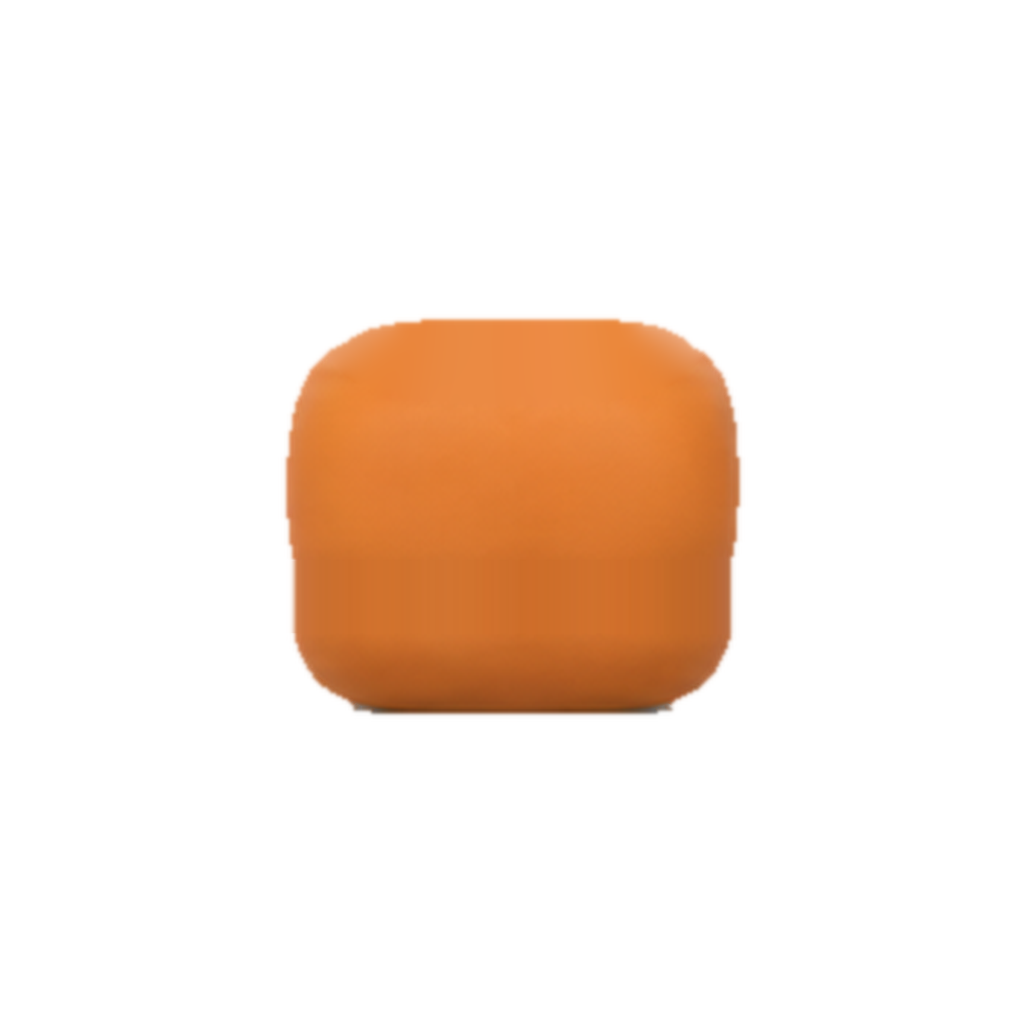
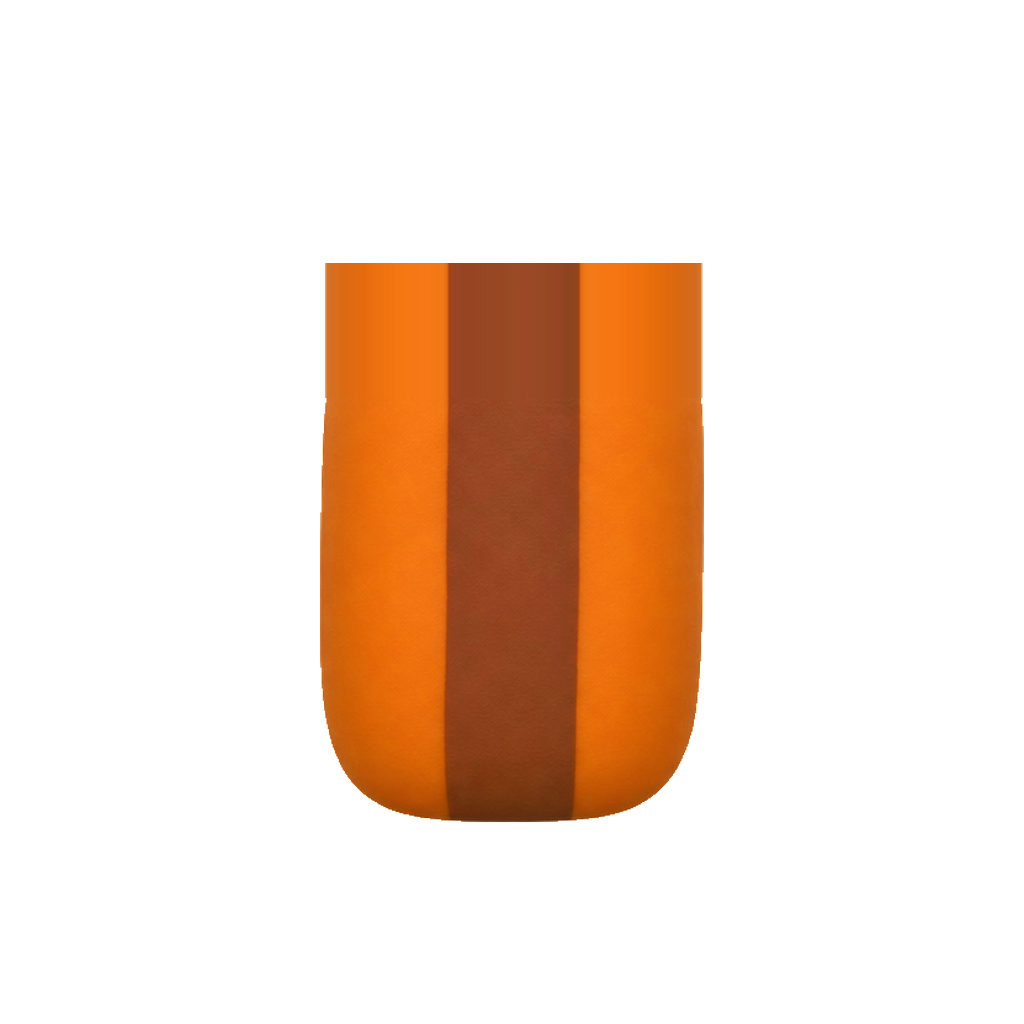
wip(experiments): dachshund v2 part-sheet candidate — REJECTED experiment, kept for reference only
NOT for promotion. Parts cut from the four v2 part sheets (assets/dachshund/received-v2/) by
tools/dachshund_import.py, ends flattened / extruded to join; user judged the joins still broken and the body
rectangular. Diagnosis (candidate/REJECTED.md): every delivered part is a closed block with rounded ends and its
own rounded saddle patch, and the side sheet's camera pitch differs from the 0°/180° sheets; the renderer adds no
separation. Next: one dachshund source at a fixed 58° camera, whole-body 0°/90°/180° pictures, split per cell.

The approved chick (8922fce) and all received/approved originals are untouched; this only replaces the earlier
dachshund candidate files, which remain in history (75fd018).

Changed region(s): [[0.2812, 0.25, 0.75, 0.8125]]

diff --git a/experiments/2-5d-crocodile/tools/dachshund_import.py b/experiments/2-5d-crocodile/tools/dachshund_import.py
@@ -1,0 +1,252 @@
+"""Build the dachshund candidate parts from the v2 part sheets so the three cards join into one long dog.
+
+Usage (from the repo root):
+  python3 experiments/2-5d-crocodile/tools/dachshund_import.py [--root DIR] [--body-width 0.9] [--scale 1.2]
+
+Input  assets/dachshund/received-v2/sheet_2.png (0°: head, body, tail), sheet_4.png (180°), sheet_3.png (side: head
+       facing right = 90°, body, tail facing left = mirrored for 90°). The sheets are not modified.
+Output assets/dachshund/candidate/dachshund_<part>_<deg>.png in the SPRITES.md frame (1024, cell 512 px at scale 1,
+       floor centre (512, 640)), candidate/dachshund.sprites.json (standard frame, drawn 0/90/180, 270 mirrored),
+       candidate/extend.json = {} (no folded extensions) and candidate/preview.png (the three headings composited
+       at game geometry). The game draws these with ?art=candidate.
+
+How the parts are made to join (the "one silhouette first" design, then split per cell):
+  size      0°/180°: the body block is BODY_WIDTH cells wide, tail block scaled to the same width (the head keeps the
+            sheet's proportion). 90°: the body block is exactly one cell long; head and tail use the same scale.
+  place     0°/180°: lowest pixel (feet / block bottom) on the cell's front edge, block centred on x = 512.
+            90°: block underside (above the legs) at 0.37 cell in front of the floor centre, block centred.
+  flatten   a block end that meets a neighbour is cut flat and filled with the block's own cross-section (its middle
+            row / column, saddle stripe included) up to the cell boundary (+ a small overlap), so the stripe and the
+            body run on into the next card. Flattened: body 0° top (toward the tail; never exposed in a turn because
+            the tail turns after the body), body 180° top and tail 180° top (toward the head / body), body 90° both
+            ends, tail 90° head-side end. Outer ends (head crown, tail curl, muzzle) stay rounded.
+"""
+import argparse
+import json
+import math
+import os
+
+import numpy as np
+from PIL import Image
+from scipy import ndimage
+
+SIZE, CELL, ANCHOR = 1024, 512, (512, 640)
+SIN58 = math.sin(math.radians(58))
+HERE = os.path.dirname(os.path.abspath(__file__))
+FULL = 0.97  # a row / column this share of the block's largest extent counts as the straight part of the block
+FEET_FORWARD = 0.37  # 90°: block underside this many cells in front of the floor centre
+OVERLAP = 0.06  # cells a flattened end runs past the cell boundary under the neighbour
+
+
+def opaque(a):
+    return a[:, :, 3] > 127
+
+
+def parts_of(sheet):
+    """The three blobs of a sheet, left to right, each cut out with its own alpha only."""
+    a = np.array(Image.open(sheet).convert('RGBA'))
+    m = opaque(a)
+    lab, n = ndimage.label(m)
+    sizes = ndimage.sum(m, lab, range(1, n + 1))
+    big = [k + 1 for k in np.argsort(sizes)[::-1] if sizes[k] > 0.05 * sizes.max()]
+    out = []
+    for k in sorted(big, key=lambda k: np.where(lab == k)[1].mean()):
+        ys, xs = np.where(lab == k)
+        crop = a[ys.min():ys.max() + 1, xs.min():xs.max() + 1].copy()
+        crop[:, :, 3] = np.where(lab[ys.min():ys.max() + 1, xs.min():xs.max() + 1] == k, crop[:, :, 3], 0)
+        out.append(crop)
+    if len(out) != 3:
+        raise SystemExit(f'{sheet}: expected 3 parts, found {len(out)}')
+    return out
+
+
+def resize(img, sx, sy=None):
+    """Lanczos resize (premultiplied so edges keep their colour)."""
+    sy = sx if sy is None else sy
+    pre = img.astype(float)
+    pre[:, :, :3] *= pre[:, :, 3:4] / 255
+    im = Image.fromarray(pre.round().astype(np.uint8)).resize((max(1, round(img.shape[1] * sx)), max(1, round(img.shape[0] * sy))), Image.LANCZOS)
+    o = np.array(im).astype(float)
+    o[:, :, :3] = np.clip(o[:, :, :3] / np.maximum(o[:, :, 3:4] / 255, 1e-3), 0, 255)
+    return o.round().astype(np.uint8)
+
+
+def leg_top(img):
+    """First row of the legs: below it the outline splits into separate runs."""
+    f = opaque(img)
+    ys = np.where(f.any(1))[0]
+    y = ys[-1] - 6
+    while y > ys[0] and ndimage.label(f[y])[1] >= 2:
+        y -= 1
+    return y + 1
+
+
+def place(img, cx, row, y):
+    """img in the standard frame with its column cx at x = 512 and its row `row` at frame row y."""
+    frame = np.zeros((SIZE, SIZE, 4), np.uint8)
+    x0, y0 = round(ANCHOR[0] - cx), round(y - row)
+    h, w = img.shape[:2]
+    frame[y0:y0 + h, x0:x0 + w] = img
+    return frame
+
+
+def flatten_top(frame, cell_top):
+    """Replace the rounded top cap of the block by its full-width cross-section, up to the cell's back edge."""
+    f = opaque(frame)
+    widths = f.sum(1)
+    full = np.where(widths >= FULL * widths.max())[0]
+    y_full = full[0]
+    ref = frame[y_full + 8:y_full + 24].astype(float).mean(0).round().astype(np.uint8)
+    top = min(np.where(f.any(1))[0][0], int(cell_top))
+    out = frame.copy()
+    out[top:y_full + 8] = ref
+    out[:top] = 0
+    return out
+
+
+def flatten_side(frame, side, x_cut, rows, extrude=False):
+    """Cut the block (rows `rows`, legs excluded) flat at x_cut and fill up to it with its middle column; with
+    `extrude` the whole straight part of the block is that column too, so the stripe's edge is one straight line
+    across every card (the sheet's saddle patch has a rounded front edge that would repeat at each join)."""
+    f = opaque(frame)
+    r0, r1 = rows
+    heights = f[r0:r1].sum(0)
+    full = np.where(heights >= FULL * heights.max())[0]
+    xc = (full[0] + full[-1]) // 2
+    ref = frame[r0:r1, xc - 8:xc + 8].astype(float).mean(1).round().astype(np.uint8)
+    out = frame.copy()
+    x_cut = int(round(x_cut))
+    if side == 'right':
+        x_from = full[0] + 8 if extrude else full[-1] - 8
+        out[:, x_from:] = 0
+        out[r0:r1, x_from:x_cut] = ref[:, None, :]
+    else:
+        x_to = full[-1] - 8 if extrude else full[0] + 8
+        out[:, :x_to] = 0
+        out[r0:r1, x_cut:x_to] = ref[:, None, :]
+    return out
+
+
+def main():
+    ap = argparse.ArgumentParser()
+    ap.add_argument('--root', default=os.path.join(HERE, '..', 'assets', 'dachshund'))
+    ap.add_argument('--body-width', type=float, default=0.9, help='body block width in cells (0°/180°)')
+    ap.add_argument('--scale', type=float, default=1.2, help='manifest scale: one cell is 512/scale picture px')
+    args = ap.parse_args()
+    root, scale = args.root, args.scale
+    cell = CELL / scale  # one cell in picture px at this manifest scale
+    depth = cell * SIN58
+    ax, ay = ANCHOR
+    front, back = ay + depth / 2, ay - depth / 2
+    out_dir = os.path.join(root, 'candidate')
+    os.makedirs(out_dir, exist_ok=True)
+    pics = {}
+
+    # 0° and 180°: stacked along the screen's vertical
+    for sheet, deg in (('sheet_2.png', 0), ('sheet_4.png', 180)):
+        head, body, tail = parts_of(os.path.join(root, 'received-v2', sheet))
+        s = args.body_width * cell / body.shape[1]
+        for name, img in (('head', head), ('body', body), ('tail', tail)):
+            im = resize(img, s)
+            if name == 'tail':  # same block width as the body, so the joined silhouette has straight sides
+                f = opaque(im)
+                w = f.sum(1).max()
+                im = resize(im, (args.body_width * cell) / w, 1.0)
+            f = opaque(im)
+            xs = np.where(f.any(0))[0]
+            frame = place(im, (xs[0] + xs[-1]) / 2, np.where(f.any(1))[0][-1], front)
+            if (name, deg) in (('body', 0), ('body', 180), ('tail', 180)):
+                frame = flatten_top(frame, back)
+            pics[f'{name}_{deg:03d}'] = frame
+
+    # 90°: side by side. The body loaf is exactly one cell long and is ALSO the tail block's body (same cross-section,
+    # tone and stripe height), with the sheet tail's curl and hind legs put on it; the head keeps the sheet's picture.
+    head, body, tail = parts_of(os.path.join(root, 'received-v2', 'sheet_3.png'))
+    tail = tail[:, ::-1]  # the sheet's tail faces left; 90° faces right
+    s = cell / body.shape[1]
+    underside = ay + FEET_FORWARD * depth
+
+    def placed(img, row):
+        f = opaque(img)
+        xs = np.where(f.any(0))[0]
+        return place(img, (xs[0] + xs[-1]) / 2, row, underside)
+
+    loaf = placed(resize(body, s), resize(body, s).shape[0])
+    rows = (np.where(opaque(loaf).any(1))[0][0], int(underside))
+    pics['body_090'] = flatten_side(flatten_side(loaf, 'right', ax + cell / 2 + OVERLAP * cell, rows, extrude=True), 'left', ax - cell / 2, rows)
+    head_im = resize(head, s)
+    pics['head_090'] = placed(head_im, leg_top(head_im))
+    tail_im = resize(tail, s)
+    t = placed(tail_im, leg_top(tail_im))
+    tf = opaque(t)
+    # straight part of each block: rows where the loaf / the tail block are at full width
+    def straight(f):
+        w = f.sum(1)
+        return np.where(w >= 0.9 * w.max())[0]
+    lo_rows, t_rows = straight(opaque(loaf)), straight(tf[:int(underside)])
+    lo_x0, t_x0 = np.where(opaque(loaf)[lo_rows[0]])[0][0], np.where(tf[t_rows[0]])[0][0]
+    dy, dx = lo_rows[0] - t_rows[0], lo_x0 - t_x0
+    r, g, b = (t[:, :, i].astype(int) for i in range(3))
+    brown = tf & (r - b > 50) & (r < 190) & (g < 120)
+    curl = brown & (np.arange(SIZE)[:, None] < t_rows[0] + 30) & (np.arange(SIZE)[None, :] < ax)
+    legs = tf & (np.arange(SIZE)[:, None] >= int(underside))
+    tail_frame = flatten_side(loaf, 'right', ax + cell / 2 + OVERLAP * cell, rows, extrude=True)
+    for mask, (sy, sx) in ((legs, (0, dx)), (curl, (dy, dx))):
+        src = np.where(mask[:, :, None], t, 0)
+        moved = np.roll(np.roll(src, sy, 0), sx, 1)
+        over = moved[:, :, 3] > 127
+        under = ~opaque(tail_frame) if mask is legs else np.ones_like(over)
+        put = over & under
+        tail_frame[put] = moved[put]
+    pics['tail_090'] = tail_frame
+
+    for key, frame in pics.items():
+        f = opaque(frame)
+        ys, xs = np.where(f.any(1))[0], np.where(f.any(0))[0]
+        Image.fromarray(frame).save(os.path.join(out_dir, f'dachshund_{key}.png'))
+        print(f'dachshund_{key}.png: x{xs[0]}-{xs[-1]} ({(xs[-1] - xs[0]) / cell:.2f} cell) y{ys[0]}-{ys[-1]}')
+
+    manifest = {
+        'species': 'dachshund',
+        'note': 'candidate: parts cut from received-v2 sheets by tools/dachshund_import.py into the standard frame, ends flattened to join into one dog; 270 mirrors 90, diagonals use the nearest',
+        'frame': {'size': SIZE, 'cellPx': CELL, 'anchor': list(ANCHOR)},
+        'scale': scale,
+        'tuck': 0,
+        'parts': {part: {'drawn': {str(d): f'dachshund_{part}_{d:03d}.png' for d in (0, 90, 180)}} for part in ('head', 'body', 'tail')},
+    }
+    with open(os.path.join(out_dir, 'dachshund.sprites.json'), 'w') as fh:
+        json.dump(manifest, fh, indent=2)
+        fh.write('\n')
+    with open(os.path.join(out_dir, 'extend.json'), 'w') as fh:
+        fh.write('{}\n')
+
+    # preview: the three headings composited at game geometry (draw order as the game: far first; at 90° head, body, tail)
+    views = {
+        '000': [('tail_000', 0, -2 * depth), ('body_000', 0, -depth), ('head_000', 0, 0)],
+        '180': [('head_180', 0, -2 * depth), ('body_180', 0, -depth), ('tail_180', 0, 0)],
+        '090': [('head_090', cell, 0), ('body_090', 0, 0), ('tail_090', -cell, 0)],
+    }
+    tiles = []
+    for order in views.values():
+        canvas = np.zeros((SIZE + 2 * int(2 * depth) + 100, SIZE + 2 * int(cell) + 100, 4), float)
+        for key, dx, dy in order:
+            img = pics[key].astype(float)
+            al = img[:, :, 3:4] / 255
+            x0, y0 = int(canvas.shape[1] / 2 - SIZE / 2 + dx), int(canvas.shape[0] / 2 - SIZE / 2 + dy)
+            sl = canvas[y0:y0 + SIZE, x0:x0 + SIZE]
+            sl[:, :, :3] = img[:, :, :3] * al + sl[:, :, :3] * (1 - al)
+            sl[:, :, 3:4] = np.maximum(sl[:, :, 3:4], img[:, :, 3:4])
+        ys, xs = np.where(canvas[:, :, 3] > 10)
+        tiles.append(Image.fromarray(canvas.round().astype(np.uint8)).crop((xs.min() - 20, ys.min() - 20, xs.max() + 20, ys.max() + 20)))
+    h = max(t.height for t in tiles)
+    sheet = Image.new('RGBA', (sum(t.width for t in tiles) + 40 * (len(tiles) + 1), h + 40), (90, 140, 90, 255))
+    x = 40
+    for t in tiles:
+        sheet.alpha_composite(t, (x, 20 + (h - t.height) // 2))
+        x += t.width + 40
+    sheet.save(os.path.join(out_dir, 'preview.png'))
+    print('preview.png written')
+
+
+if __name__ == '__main__':
+    main()

diff --git a/experiments/2-5d-crocodile/assets/dachshund/candidate/REJECTED.md b/experiments/2-5d-crocodile/assets/dachshund/candidate/REJECTED.md
@@ -1,0 +1,11 @@
+# 불합격 실험본 (2026-11-02) — 기본 에셋으로 승격 금지
+
+이 폴더의 `dachshund_*_{000,090,180}.png`, `dachshund.sprites.json`, `preview.png`는 `received-v2/` 부품 시트를
+`tools/dachshund_import.py`로 잘라 끝단을 평면화·압출한 실험본입니다. 사용자 판정: 연결부가 반복적으로 끊기고
+몸통이 직사각형처럼 보여 **불합격**.
+
+원인: 부품 시트 12장이 모두 양끝이 닫힌 독립 블록(둥근 캡슐·식빵, 블록별 둥근 등 무늬 패치)이고, 0°/180° 시트와
+측면 시트의 카메라 고도가 다릅니다. 렌더러(`spriteCards.ts`) 쪽 원인은 없음.
+
+다음 제작: 같은 닥스훈트 원본에서 카메라 고도 58° 고정, 0°·90°·180° 통짜 이미지를 받아 실제 게임 셀 투영 기준으로
+head/body/tail을 분할합니다. `?art=candidate`로만 표시되며 승인된 다른 동물(병아리 등)과 무관합니다.
